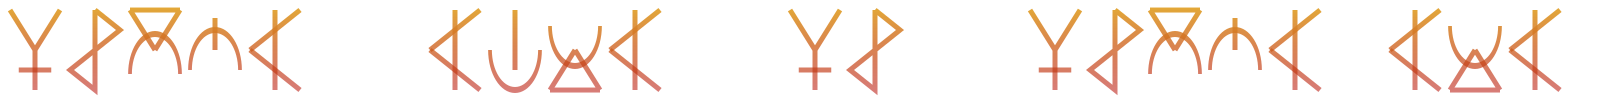
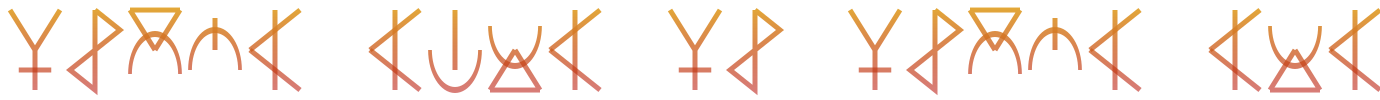
solved alignment problems due to " " writing two spaces and due to line width

diff --git a/main.py b/main.py
@@ -77,8 +77,8 @@ class CharacterWriter:
                   }
   
   def generate_default_context(self, char_width, char_height):
-    pixel_width = int(char_width * (self.CHAR_WIDTH + 2 * self.XPAD))
-    pixel_height = int(char_height * (self.CHAR_HEIGHT + 2 * self.YPAD))
+    pixel_width = int(char_width * (self.CHAR_WIDTH + self.XPAD))
+    pixel_height = int(char_height * (self.CHAR_HEIGHT + self.YPAD) + 2 * self.LINE_WIDTH)
     self.surface = cairo.ImageSurface(cairo.FORMAT_ARGB32, pixel_width, pixel_height)
     ctx = cairo.Context(self.surface)
 
@@ -519,4 +519,4 @@ def debug_print():
   
 
 if __name__ == "__main__":
-  debug_print() if True else main()
+  debug_print() if False else main()
